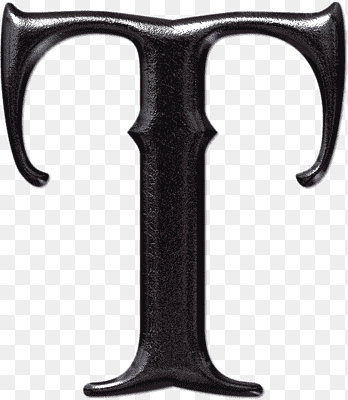
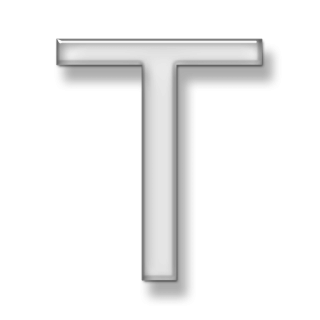
udpate data

diff --git a/public/index.html b/public/index.html
@@ -2,17 +2,17 @@
 <html lang="en">
 
 <head>
-    <link rel="icon" href="Images/J.png" />
+    <link rel="icon" href="Images/TalhaFinalT.png" />
     <link href="https://fonts.googleapis.com/css2?family=Red+Hat+Display:wght@400;500;700&display=swap" rel="stylesheet">
     <link rel="preconnect" href="https://fonts.googleapis.com">
     <link rel="preconnect" href="https://fonts.gstatic.com" crossorigin>
     <link rel="stylesheet" href="https://cdnjs.cloudflare.com/ajax/libs/animate.css/3.5.2/animate.min.css">
     <link rel="sitemap" type="application/xml" title="Sitemap" href="/sitemap.xml" />
 
-    <title>Jawad Mir | Portfolio</title>
+    <title>Talha Jamil | Portfolio</title>
     <meta charset="utf-8" />
-    <meta property="og:title" content="Jawad Mir | Portfolio">
-    <meta name="keywords" content="Jawad Mir,Portfolio Vinayak Singh,Freelance website developer">
+    <meta property="og:title" content="Talha Jamil | Portfolio">
+    <meta name="keywords" content="Talha Jamil,Portfolio Vinayak Singh,Freelance website developer">
     <meta property="og:description" content="Looking for a talented freelance website developer? Vinayak Singh has the skills and expertise you need to bring your website vision to life. With a wide range of skills including HTML, CSS, JavaScript, and React, as well as expertise in CMS systems like WordPress and Shopify, Contact Vinayak today to get started. Contact now today to get started on your web development project." name="description">
     <meta property="og:image:type" content="image/jpg">
     <meta property="og:image" content="">

diff --git a/src/components/About/About.tsx b/src/components/About/About.tsx
@@ -1,5 +1,5 @@
 import { Container } from "./styles";
-import JawadMir from "../../assets/JawadMir.png";
+import TalhaJamil from "../../assets/Talha.png";
 import wordpress from "../../assets/wordpress.svg";
 import shopify from "../../assets/shopify.svg";
 import htmlIcon from "../../assets/html-icon.svg";
@@ -21,7 +21,7 @@ export function About() {
         </ScrollAnimation>
         <ScrollAnimation animateIn="fadeInLeft" delay={0.1 * 1000}>
           <p>
-          Hi, I'm Javad Mir, a React Native developer passionate about crafting custom mobile experiences. I have the skills to bring your app ideas to life.
+          Hi, I'm Talha Jamil, a React Native developer passionate about crafting custom mobile experiences. I have the skills to bring your app ideas to life.
           </p>
         </ScrollAnimation>
         <ScrollAnimation animateIn="fadeInLeft" delay={0.2 * 1000} style={{ marginTop: "2rem", marginBottom: "2rem" }}>
@@ -70,7 +70,7 @@ export function About() {
       </div>
       <div>
         <ScrollAnimation animateIn="fadeInRight" delay={0.20 * 1000} className="about-image">
-          <img src={JawadMir} alt="JawadMir" />
+          <img src={TalhaJamil} alt="TalhaJamil" />
         </ScrollAnimation>
       </div>
     </Container>

diff --git a/src/components/Hero/Hero.tsx b/src/components/Hero/Hero.tsx
@@ -17,8 +17,7 @@ export function Hero() {
           <p>Hello <img src={Hello} alt="Hello" width="20px"/>, I'm</p>
         </ScrollAnimation>
         <ScrollAnimation animateIn="fadeInUp" delay={0.2 * 1000}>
-          <h1>M Jawad Mir</h1>
-          {/* <h1>Talha Jamil</h1> */}
+          <h1>Talha Jamil</h1>
 
         </ScrollAnimation>
         <Typed/> 
@@ -35,8 +34,7 @@ export function Hero() {
         </ScrollAnimation>
         <ScrollAnimation animateIn="fadeInUp" delay={1 * 1000}>
       <div className="social-media"><a
-         href="https://www.linkedin.com/in/m-jawad-mir-21178a194/"
-         // href="https://www.linkedin.com/in/talha-jamil-03b176210/"
+         href="https://www.linkedin.com/in/talha-jamil-03b176210/"
          
         target="_blank"
         rel="noreferrer"
@@ -51,8 +49,7 @@ export function Hero() {
           <img src={githubIcon} alt="GitHub" />
         </a>
         <a
-          href="https://api.whatsapp.com/send/?phone=%2B923441080119&text=Hello+Jawad"
-          // href="https://api.whatsapp.com/send/?phone=%2B923346751811&text=Hello+Talha"
+          href="https://api.whatsapp.com/send/?phone=%2B923346751811&text=Hello+Talha"
           target="_blank"
           rel="noreferrer"
         >

diff --git a/src/components/Contact/Contact.tsx b/src/components/Contact/Contact.tsx
@@ -15,12 +15,12 @@ export function Contact(){
       </header>
       <div className="contacts">
         <div>
-        <a href="mailto:jmir3660@gmail.com"><img src={emailIcon} alt="Email" /></a> 
-          <a href="mailto:jmir3660@gmail.com">jmir3660@gmail.com</a>
+        <a href="mailto:talhajamil@gmail.com"><img src={emailIcon} alt="Email" /></a> 
+          <a href="mailto:talhajamil@gmail.com">talhajamil@gmail.com</a>
         </div>
         <div>
-        <a href="tel:+923441080119"><img src={phoneIcon} alt="Phone No" /></a>
-          <a href="tel:+923441080119">(+92)3441080119</a>
+        <a href="tel:+923346751811"><img src={phoneIcon} alt="Phone No" /></a>
+          <a href="tel:+923346751811">(+92)3346751811</a>
         </div>  
       </div>
       <Form></Form>

diff --git a/src/components/Footer/Footer.tsx b/src/components/Footer/Footer.tsx
@@ -19,8 +19,7 @@ export function Footer() {
       </div>
       <div className="social-media">
         <a
-        href="https://www.linkedin.com/in/m-jawad-mir-21178a194/"
-        // href="https://www.linkedin.com/in/talha-jamil-03b176210/"
+        href="https://www.linkedin.com/in/talha-jamil-03b176210/"
           target="_blank"
           rel="noreferrer"
         >
@@ -34,7 +33,7 @@ export function Footer() {
           <img src={githubIcon} alt="GitHub" />
         </a>
         <a
-          href="https://api.whatsapp.com/send/?phone=%2B923441080119&text=Hello+Jawad"
+          href="https://api.whatsapp.com/send/?phone=%2B923346751811&text=Hello+Talha"
           target="_blank"
           rel="noreferrer"
         >

diff --git a/src/components/Typed/Typed.tsx b/src/components/Typed/Typed.tsx
@@ -7,7 +7,7 @@ const Typed: React.FC = () => {
     <div className="TypeEffect">
       <Typewriter
         options={{
-          strings: ['<strong><span style="color: #27ae60;">Jawad Mir</span> </strong>', 'React Native Developer','Mobile App developer'],
+          strings: ['<strong><span style="color: #27ae60;">Talha Jamil</span> </strong>', 'React Native Developer','Mobile App developer'],
           autoStart: true,
           loop: true,
           delay: 70,

diff --git a/src/components/Header/Header.tsx b/src/components/Header/Header.tsx
@@ -16,8 +16,8 @@ export function Header() {
     <Container className="header-fixed">
       <Router>
         <HashLink smooth to="#home" className="logo">
-          <span>{"<J "}</span>
-          <span>{" M/>"}</span>
+          <span>{"<T"}</span>
+          <span>{" J/>"}</span>
         </HashLink>
         <input
           onChange={toggleTheme}
